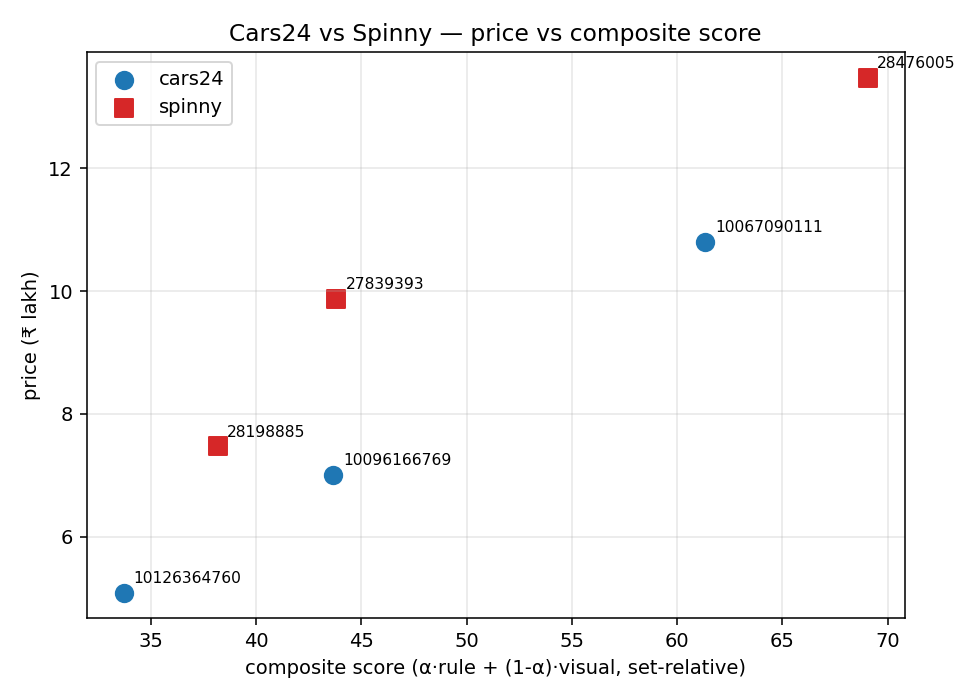
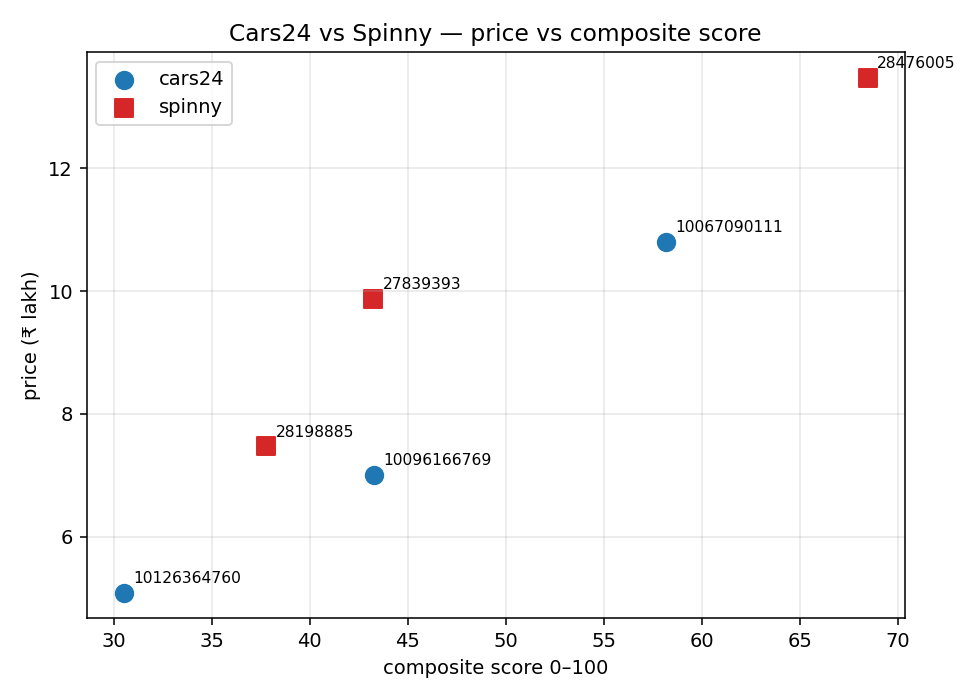
docs(report): simplify chart x-label to 'composite score 0-100'

diff --git a/src/ci/report.py b/src/ci/report.py
@@ -18,9 +18,9 @@ def render_chart(rows: list[RankRow], out_path: Path) -> None:
     fig, ax = plt.subplots(figsize=(7, 5))
     has_visual = any(r.composite_score is not None for r in rows)
     x_label = (
-        "composite score (α·rule + (1-α)·visual, set-relative)"
+        "composite score 0–100"
         if has_visual else
-        "condition score (rank-based, 0–100, relative to this set)"
+        "rule score 0–100"
     )
     for plat, marker, color in [("cars24", "o", "#1f77b4"), ("spinny", "s", "#d62728")]:
         sub = [r for r in rows if r.platform == plat]
